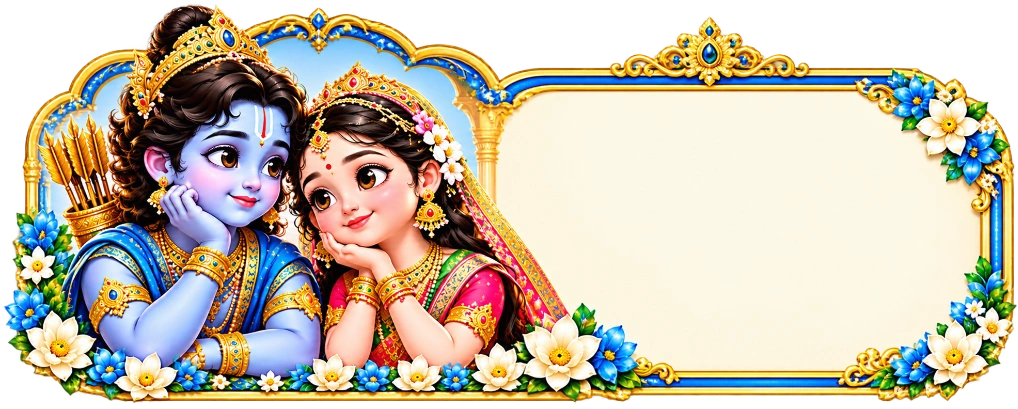
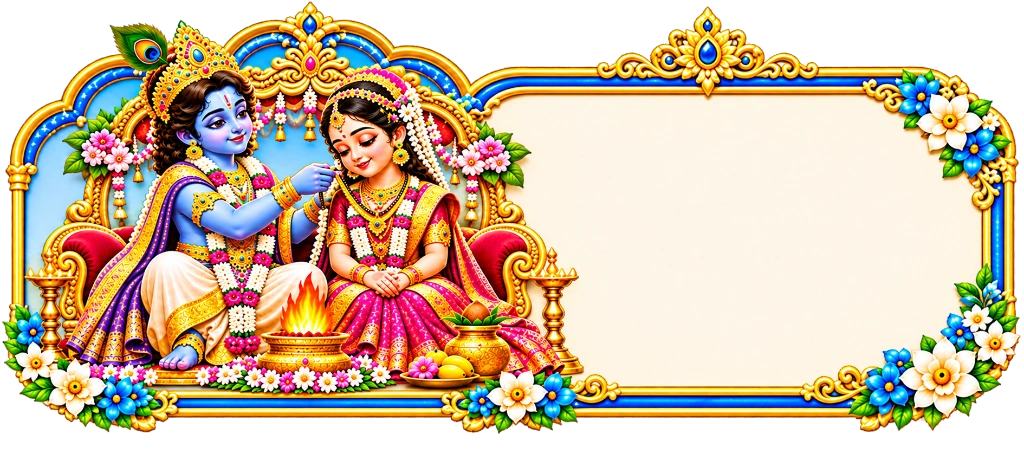
Replace event cards with royal krishna artwork, reception card from krishna template, and 3-line location format

diff --git a/index.html b/index.html
@@ -430,15 +430,15 @@
         <div class="event-card-item" id="event-card-1">
           <div class="event-banner-wrap">
             <img 
-              src="assets/card-pellikodukuni.webp?v=20261210" 
-              alt="Pellikodukuni Cheyuta Ceremony" 
+              src="assets/card-pellikodukuni.webp?v=20261125d" 
+              alt="Pellikodukuni Ceremony" 
               class="event-banner-artwork" 
             />
             <div class="event-card-inner-overlay overlay-right">
               <h3 class="event-custom-title title-pellikoduku">Pelli Kodukuni</h3>
               <p class="event-custom-date date-pellikoduku">10 December 2026</p>
               <p class="event-custom-time">7:30 AM</p>
-              <p class="event-custom-location">Mangalagiri</p>
+              <p class="event-custom-location">At our home, Mangalagiri</p>
             </div>
           </div>
         </div>
@@ -447,7 +447,7 @@
         <div class="event-card-item" id="event-card-2">
           <div class="event-banner-wrap">
             <img 
-              src="assets/card-haldi.webp?v=20261210" 
+              src="assets/card-haldi.webp?v=20261125d" 
               alt="Haldi Ceremony" 
               class="event-banner-artwork" 
             />
@@ -455,7 +455,7 @@
               <h3 class="event-custom-title title-haldi">Haldi Ceremony</h3>
               <p class="event-custom-date date-haldi">11 December 2026</p>
               <p class="event-custom-time">8:00 AM</p>
-              <p class="event-custom-location">Mangalagiri</p>
+              <p class="event-custom-location">At our home, Mangalagiri</p>
             </div>
           </div>
         </div>
@@ -464,7 +464,7 @@
         <div class="event-card-item" id="event-card-3">
           <div class="event-banner-wrap">
             <img 
-              src="assets/card-wedding-muhurtham.webp?v=20261210" 
+              src="assets/card-wedding-muhurtham.webp?v=20261125d" 
               alt="Wedding Muhurtham" 
               class="event-banner-artwork" 
             />
@@ -472,7 +472,11 @@
               <h3 class="event-custom-title title-wedding">Wedding</h3>
               <p class="event-custom-date date-wedding">12 December 2026</p>
               <p class="event-custom-time">8:32 PM</p>
-              <p class="event-custom-location">Sri Markandeya Padmashali Kalyanamandapam, Mangalagiri</p>
+              <p class="event-custom-location event-three-lines">
+                <span class="loc-line">Sri Markandeya Padmashali</span>
+                <span class="loc-line">Kalyanamandapam</span>
+                <span class="loc-line">Mangalagiri</span>
+              </p>
             </div>
           </div>
         </div>
@@ -481,7 +485,7 @@
         <div class="event-card-item" id="event-card-4">
           <div class="event-banner-wrap">
             <img 
-              src="assets/card-reception-gala.webp?v=20261210" 
+              src="assets/card-reception-gala.webp?v=20261125d" 
               alt="Grand Reception" 
               class="event-banner-artwork" 
             />
@@ -489,7 +493,11 @@
               <h3 class="event-custom-title title-reception">Reception</h3>
               <p class="event-custom-date date-reception">13 December 2026</p>
               <p class="event-custom-time">8:00 PM</p>
-              <p class="event-custom-location">Sri Markandeya Padmashali Kalyanamandapam, Mangalagiri</p>
+              <p class="event-custom-location event-three-lines">
+                <span class="loc-line">Sri Markandeya Padmashali</span>
+                <span class="loc-line">Kalyanamandapam</span>
+                <span class="loc-line">Mangalagiri</span>
+              </p>
             </div>
           </div>
         </div>

diff --git a/style.css b/style.css
@@ -3225,3 +3225,33 @@ body.intro-active {
   color: inherit !important;
   letter-spacing: 0.5px;
 }
+
+
+/* Three lines location style for Wedding and Reception cards */
+.event-three-lines {
+  display: flex !important;
+  flex-direction: column !important;
+  align-items: center !important;
+  justify-content: center !important;
+  gap: 1px !important;
+  margin: 3px 0 0 !important;
+  line-height: 1.22 !important;
+}
+
+.event-three-lines .loc-line {
+  display: block;
+  font-family: 'Playfair Display', Georgia, serif;
+  font-size: clamp(0.66rem, 1.8vw, 0.78rem);
+  font-weight: 600;
+  color: #1e3a8a;
+  letter-spacing: 0.3px;
+  text-align: center;
+  white-space: nowrap;
+}
+
+@media (max-width: 480px) {
+  .event-three-lines .loc-line {
+    font-size: 0.64rem;
+    letter-spacing: 0.2px;
+  }
+}
